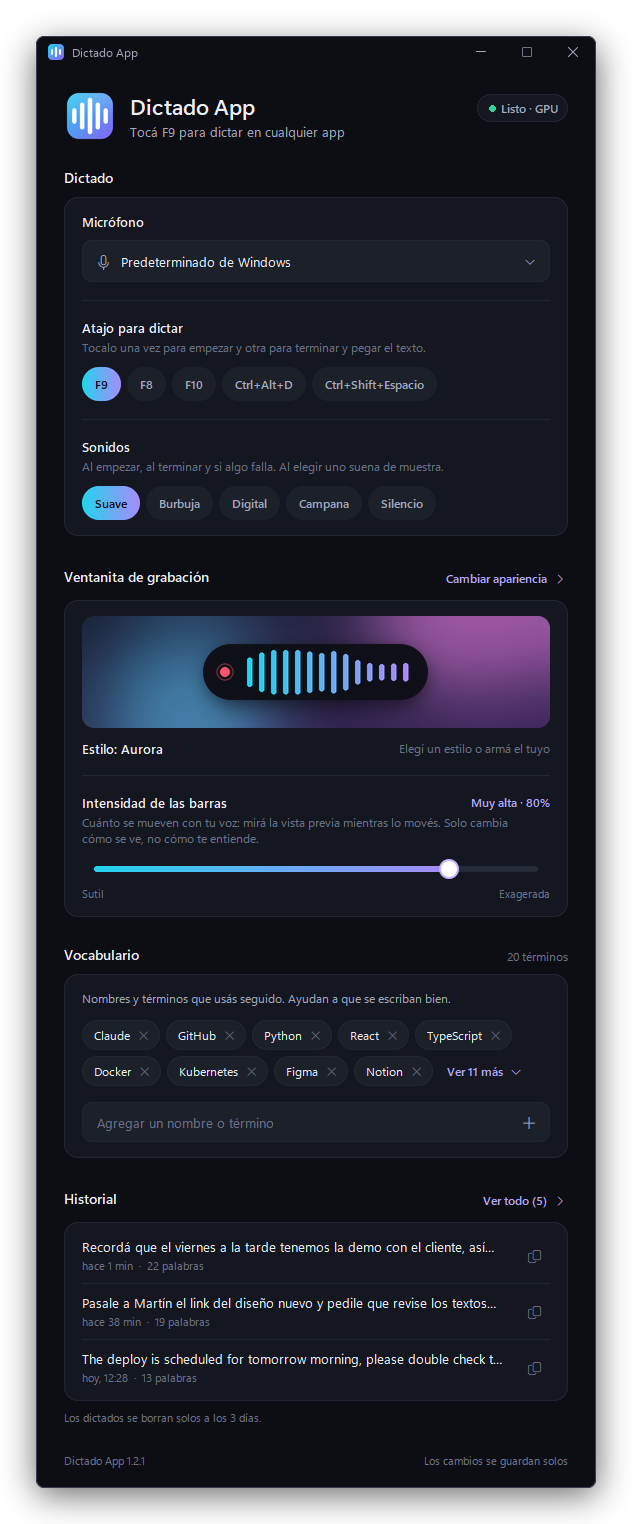
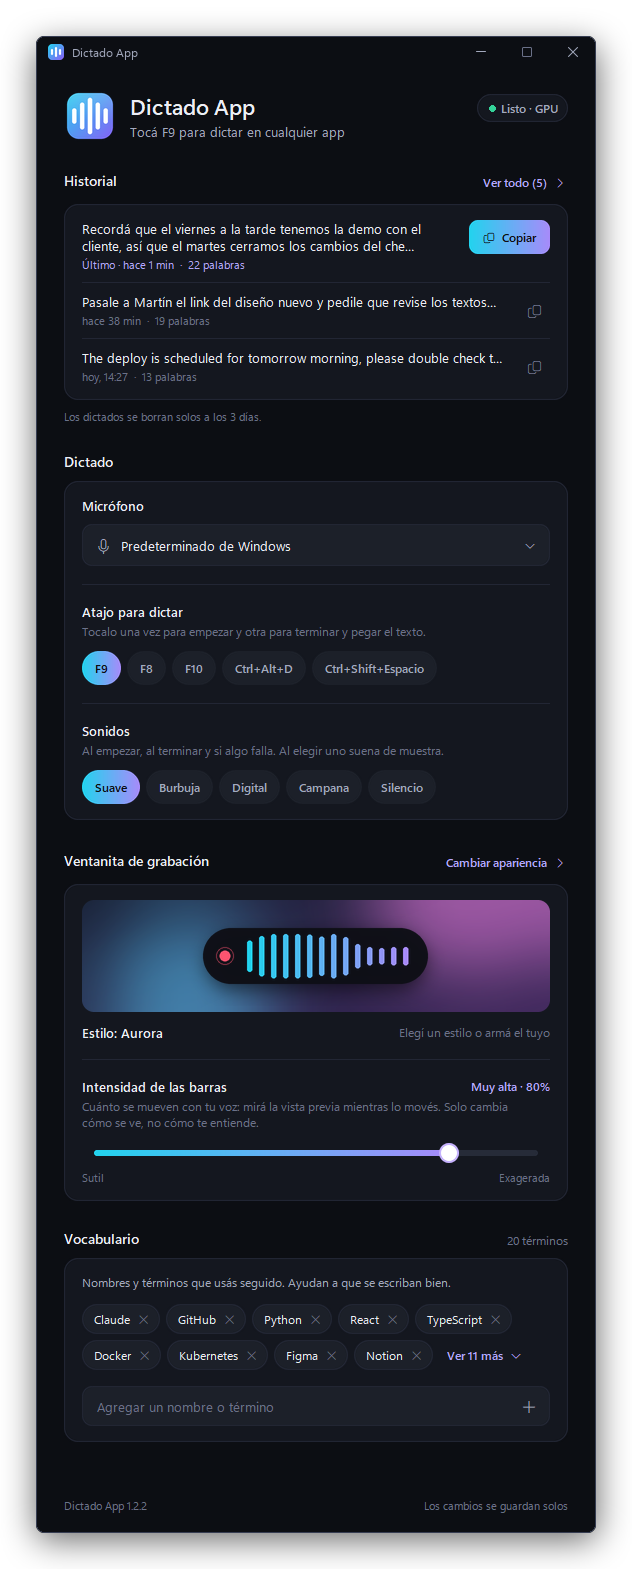
feat: el historial va primero en Ajustes, con Copiar a mano (v1.2.2)
Casi siempre se abre Ajustes para copiar el último dictado: el Historial
pasa arriba de todo y el último se destaca (dos líneas, etiqueta "Último"
y botón Copiar grande que confirma con "Copiado").

diff --git a/settings.py b/settings.py
@@ -199,10 +199,10 @@ class SettingsView(_Toast):
         root = tk.Frame(self.area.inner, bg=ui.BG)
         root.pack(fill="both", expand=True, padx=(28, 16), pady=(22, 20))
         self._header(root)
+        self._historial(root)      # primero: casi siempre se abre para copiar el último dictado
         self._dictado(root)
         self._ventanita(root)
         self._vocabulario(root)
-        self._historial(root)
         self._footer(root)
         self._poll()
 
@@ -398,7 +398,7 @@ class SettingsView(_Toast):
         card.pack(fill="x")
         self.hist_body = card.body
         ui.label(p, f"Los dictados se borran solos a los {history.RETENTION_DAYS} días.", F.tiny,
-                 ui.TEXT_3, bg=ui.BG).pack(anchor="w", pady=(9, 0))
+                 ui.TEXT_3, bg=ui.BG).pack(anchor="w", pady=(9, 28))
         self._render_history()
 
     def _render_history(self):
@@ -421,22 +421,40 @@ class SettingsView(_Toast):
         for i, it in enumerate(items[:PREVIEW]):
             if i:
                 ui.separator(self.hist_body).pack(fill="x")
-            self._history_row(it)
+            self._history_row(it, latest=i == 0)
 
-    def _history_row(self, item):
+    def _history_row(self, item, latest=False):
+        """El último dictado va destacado: dos líneas y un botón Copiar grande."""
         row = tk.Frame(self.hist_body, bg=ui.SURFACE)
         row.pack(fill="x", pady=10)
-        btn = ui.IconButton(row, ui.I_COPY)
-        btn.command = lambda: self._copy(item["text"], btn)
-        btn.pack(side="right", padx=(12, 0))
+        if latest:
+            btn = ui.Button(row, "Copiar", kind="primary", icon=ui.I_COPY, height=34, padx=14,
+                            font=F.small_sb)
+            btn.command = lambda: self._copy_latest(item["text"], btn)
+        else:
+            btn = ui.IconButton(row, ui.I_COPY)
+            btn.command = lambda: self._copy(item["text"], btn)
+        btn.pack(side="right", padx=(12, 0), anchor="n" if latest else "center")
         col = tk.Frame(row, bg=ui.SURFACE)
         col.pack(side="left", fill="x", expand=True)
-        txt = ui.label(col, "", F.body)
+        lines = 2 if latest else 1
+        txt = ui.label(col, "", F.body, justify="left")
         txt.pack(anchor="w", fill="x")
-        ui.label(col, f"{when(item['t'])}  ·  {words(item['text'])}", F.tiny,
-                 ui.TEXT_3).pack(anchor="w", pady=(3, 0))
+        ui.label(col, f"{'Último · ' if latest else ''}{when(item['t'])}  ·  {words(item['text'])}",
+                 F.tiny, ui.ACCENT if latest else ui.TEXT_3).pack(anchor="w", pady=(3, 0))
         col.bind("<Configure>", lambda e: txt.configure(
-            text=ui.ellipsize(item["text"], F.body, e.width - 2)))
+            wraplength=max(50, e.width - 2),
+            text=ui.ellipsize(item["text"], F.body, lines * (e.width - 2) - 70 * (lines - 1))))
+
+    def _copy_latest(self, text, btn):
+        self.ctx.copy(text)
+        btn.update_content(text="Copiado", icon=ui.I_CHECK)
+        self._toast("Copiado al portapapeles")
+
+        def back():
+            if btn.winfo_exists():
+                btn.update_content(text="Copiar", icon=ui.I_COPY)
+        btn.after(1500, back)
 
     def _copy(self, text, btn):
         self.ctx.copy(text)

diff --git a/brand.py b/brand.py
@@ -9,7 +9,7 @@ import numpy as np
 from PIL import Image, ImageDraw
 
 APP_NAME = "Dictado App"
-__version__ = "1.2.1"
+__version__ = "1.2.2"
 
 _SS = 8
 _BRAND = ((34, 211, 238), (139, 92, 246))     # cian → violeta
